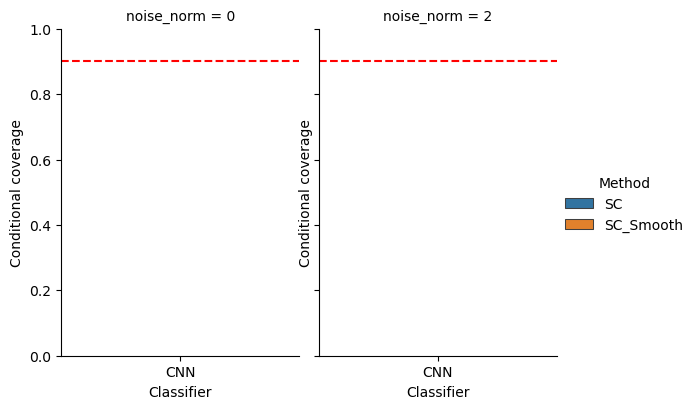
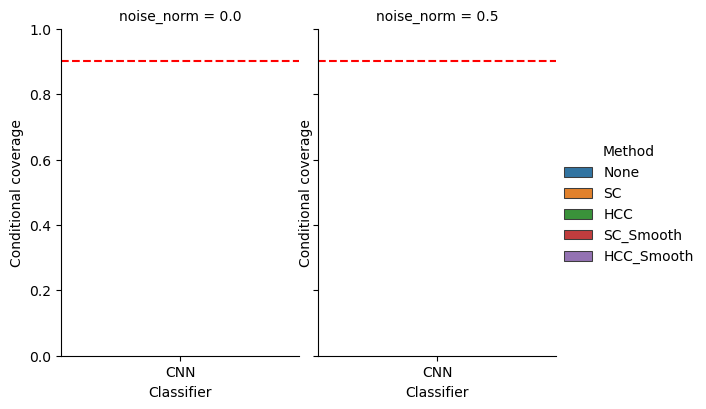
gpu support2

diff --git a/code/arc/Asaf/methods_new.py b/code/arc/Asaf/methods_new.py
@@ -24,7 +24,7 @@ class No_Calibration:
     # predict prediction sets
     def predict(self, X):
         # get number of points
-        n = X.shape[0]
+        n = np.shape(X)[0]
 
         # generate random uniform variables for oracle set creation
         rng = default_rng()
@@ -48,10 +48,10 @@ class Non_Conformity_Score_Calibration:
     def __init__(self, X_calib, Y_calib, black_box, alpha, score_func=None):
 
         # size of the calibration set
-        n_calib = X_calib.size()[0]
+        n_calib = np.shape(X_calib)[0]
 
         # turn one hot vectors into single lables
-        Y_calib = torch.argmax(Y_calib, axis=1)
+        Y_calib = np.argmax(Y_calib, axis=1)
 
         # calibrator parameters
         self.black_box = black_box
@@ -81,7 +81,7 @@ class Non_Conformity_Score_Calibration:
     # predict prediction sets
     def predict(self, X):
         # get number of points
-        n = X.size()[0]
+        n = np.shape(X)[0]
 
         # get classifier predictions on test set
         P_hat = self.black_box.predict(X)
@@ -274,22 +274,20 @@ class Test_Score_Lower_Bound_Calibration:
 class Smoothed_Score_Calibration:
     def __init__(self, X_calib, Y_calib, black_box, alpha, epsilon=0, score_func=None):
 
-        # automatically choose device use gpu 0 if it is available o.w. use the cpu
-        self.device = torch.device("cuda:0" if torch.cuda.is_available() else "cpu")
-
         # size of the calibration set
-        n_calib = X_calib.size()[0]
+        n_calib = np.shape(X_calib)[0]
 
         # turn one hot vectors into single labels
-        Y_calib = torch.argmax(Y_calib, axis=1)
+        Y_calib = np.argmax(Y_calib, axis=1)
 
         # get dimension of data
-        rows = X_calib.size()[2]
-        cols = X_calib.size()[3]
+        rows = np.shape(X_calib)[2]
+        cols = np.shape(X_calib)[3]
+        channels = np.shape(X_calib)[1]
         p = rows * cols
 
         # number of permutations to estimate mean
-        self.n_permutations = 100
+        self.n_permutations = 1000
 
         # calibrator parameters
         self.black_box = black_box
@@ -301,23 +299,17 @@ class Smoothed_Score_Calibration:
         tmp = self.black_box.predict(X_calib[0:1, :, :, :])
         self.num_of_classes = tmp.shape[1]
 
-        # set standard deviation for smoothing
+        # set standard deviation and mean for smoothing
         self.sigma = (10) * epsilon
-
-        # set covariance and mean of smoothing function
-        self.mean = np.zeros(p)
-        self.cov = self.sigma**2 * np.eye(p)
+        self.mean = 0
 
         # generate random vectors from the Gaussian distribution
         rng = default_rng()
-        noises = rng.multivariate_normal(self.mean, self.cov, self.n_permutations)
+        noises = rng.normal(0, self.sigma, (self.n_permutations, channels, rows, cols)).astype(np.float32)
 
         # clip to pixel values
         noises[noises < 0] = 0
         noises[noises > 1] = 1
-
-        # bring noises to pytorch form
-        noises = torch.tensor(np.reshape(noises, (self.n_permutations, 1, rows, cols)).astype(np.float32)).to(self.device)
 
         # create container for the scores
         scores = np.zeros(n_calib)
@@ -335,7 +327,6 @@ class Smoothed_Score_Calibration:
             noisy_outputs = softmax(noisy_outputs, axis=1)
 
             # generate random variable for inverse quantile score
-            rng = default_rng()
             u = np.ones(self.n_permutations) * rng.uniform(low=0.0, high=1.0)
 
             # estimate empirical mean of noisy scores
@@ -347,23 +338,21 @@ class Smoothed_Score_Calibration:
 
     def predict(self, X):
         # get number of points
-        n = X.size()[0]
+        n = np.shape(X)[0]
 
         # get dimension of data
-        rows = X.size()[2]
-        cols = X.size()[3]
+        rows = np.shape(X)[2]
+        cols = np.shape(X)[3]
+        channels = np.shape(X)[1]
         p = rows * cols
 
         # generate random vectors from the Gaussian distribution
         rng = default_rng()
-        noises = rng.multivariate_normal(self.mean, self.cov, self.n_permutations)
+        noises = rng.normal(0, self.sigma, (self.n_permutations, channels, rows, cols)).astype(np.float32)
 
         # clip to pixel values
         noises[noises < 0] = 0
         noises[noises > 1] = 1
-
-        # bring noises to pytorch form
-        noises = torch.tensor(np.reshape(noises, (self.n_permutations, 1, rows, cols)).astype(np.float32)).to(self.device)
 
         # create container for the noisy scores
         noisy_scores = np.zeros((n,self.num_of_classes))
@@ -378,13 +367,12 @@ class Smoothed_Score_Calibration:
             noisy_outputs = softmax(noisy_outputs, axis=1)
 
             # generate random variable for inverse quantile score
-            rng = default_rng()
             u = np.ones(self.n_permutations) * rng.uniform(low=0.0, high=1.0)
 
             # compute score of all labels
             noisy_scores[j,:] = np.mean(self.score_func(noisy_outputs,np.arange(self.num_of_classes),u),axis=0)
 
-        # correction based on the Lipshoctiz constant
+        # correction based on the Lipschitz constant
         if self.sigma == 0:
             correction1 = 0
             correction2 = 0

diff --git a/code/arc/Asaf/Adverserial_Attack.py b/code/arc/Asaf/Adverserial_Attack.py
@@ -52,7 +52,7 @@ class Net(nn.Module):
 
 alpha = 0.1
 epsilon = 2
-n_experiments = 5
+n_experiments = 10
 
 # automatically choose device use gpu 0 if it is available o.w. use the cpu
 device = torch.device("cuda:0" if torch.cuda.is_available() else "cpu")
@@ -64,18 +64,20 @@ print("device: ", device)
 (x_train, y_train), (x_test, y_test), min_pixel_value, max_pixel_value = load_mnist()
 
 # Swap axes to PyTorch's NCHW format nx1x28x28
-x_train = torch.tensor(x_train.transpose((0, 3, 1, 2)).astype(np.float32)).to(device)
-y_train = torch.tensor(y_train).to(device)
-x_test = torch.tensor(x_test.transpose((0, 3, 1, 2)).astype(np.float32)).to(device)
+x_train = x_train.transpose((0, 3, 1, 2)).astype(np.float32)
+x_test = x_test.transpose((0, 3, 1, 2)).astype(np.float32)
 
-
+# get dimension of data
+rows = np.shape(x_train)[2]
+cols = np.shape(x_train)[3]
+channels = np.shape(x_train)[1]
 
 # save the sizes of each on of the sets
 n_train = np.shape(x_train)[0]
 n_test = np.shape(x_test)[0]
 
 # Create the model
-model = Net().to(device)
+model = Net()
 
 # Define the loss function and the optimizer
 criterion = nn.CrossEntropyLoss()
@@ -87,7 +89,7 @@ classifier = PyTorchClassifier(
     clip_values=(min_pixel_value, max_pixel_value),
     loss=criterion,
     optimizer=optimizer,
-    input_shape=(1, 28, 28),
+    input_shape=(channels, rows, cols),
     nb_classes=10,
 )
 
@@ -109,11 +111,11 @@ print("Accuracy on benign test examples: {}%".format(accuracy * 100))
 # Generate adversarial test examples
 attack = FastGradientMethod(estimator=classifier, eps=epsilon, norm=2)
 # attack = AutoProjectedGradientDescent(estimator=classifier, eps=epsilon, norm=2)
-# attack = ProjectedGradientDescent(estimator=classifier, eps=epsilon, norm=2)
+#attack = ProjectedGradientDescent(estimator=classifier, eps=epsilon, norm=2)
 
-x_test_adv = torch.tensor(attack.generate(x=x_test)).to(device)
+x_test_adv = attack.generate(x=x_test)
 
-# Step 7: Evaluate the ART classifier on adversarial test examples
+# Evaluate the ART classifier on adversarial test examples
 #plt.figure()
 #plt.imshow(x_test_adv.transpose((0, 2, 3, 1))[0],cmap='gray')
 #plt.show()
@@ -129,38 +131,36 @@ print("Accuracy on adversarial test examples: {}%".format(accuracy * 100))
 
 # List of calibration methods to be compared
 methods = {
-     #'None': methods.No_Calibration,
+     'None': methods.No_Calibration,
      'SC': methods.Non_Conformity_Score_Calibration,
     # 'CV+': arc.methods.CVPlus,
     # 'JK+': arc.methods.JackknifePlus,
-    # 'HCC': methods.Non_Conformity_Score_Calibration,
+    'HCC': methods.Non_Conformity_Score_Calibration,
     # 'CQC': arc.others.CQC,
     #'HCC_LB': methods.Test_Score_Lower_Bound_Calibration,
     #'SC_LB': methods.Test_Score_Lower_Bound_Calibration
      #'HCC_UB': methods.Upper_Bound_Score_Calibration,
      #'SC_UB': methods.Upper_Bound_Score_Calibration,
-    'SC_Smooth': methods.Smoothed_Score_Calibration
-    # 'HCC_Smooth': methods.Smoothed_Score_Calibration
+    'SC_Smooth': methods.Smoothed_Score_Calibration,
+    'HCC_Smooth': methods.Smoothed_Score_Calibration
 }
+
+#x_test = x_test[0:2000, :, :, :]
+#y_test = y_test[0:2000, :]
 
 # create dataframe for storing results
 results = pd.DataFrame()
 for experiment in tqdm(range(n_experiments)):
 
     # Split test data into calibration and test
-    x_calib, x_test_new, y_calib, y_test_new = train_test_split(x_test, y_test, test_size=0.8, random_state=(2020 + experiment))
+    x_calib, x_test_new, y_calib, y_test_new = train_test_split(x_test, y_test, test_size=0.8)
 
     # save sizes of calibration and test sets
-    n_calib = x_calib.size()[0]
-    n_test = x_test_new.size()[0]
-
-    # send data to device
-    x_calib = x_calib.to(device)
-    y_calib = torch.tensor(y_calib).to(device)
-    x_test_new = x_test_new.to(device)
+    n_calib = np.shape(x_calib)[0]
+    n_test = np.shape(x_test_new)[0]
 
     # Generate adversarial test examples
-    x_test_adv = torch.tensor(attack.generate(x=x_test_new)).to(device)
+    x_test_adv = attack.generate(x=x_test_new)
 
     for method_name in methods:
         # Calibrate model with calibration method
@@ -194,10 +194,10 @@ for experiment in tqdm(range(n_experiments)):
         # Add results to the list
         results = results.append(res)
 
-        # Form prediction sets for dversarial exmaples
+        # Form prediction sets for adversarial examples
         S = method.predict(x_test_adv)
 
-        # Evaluate results on adversarial exmaples
+        # Evaluate results on adversarial examples
         res = scores.evaluate_predictions(S, x_test_new, y_test_new,conditional=False)
 
         res['Method'] = method_name
